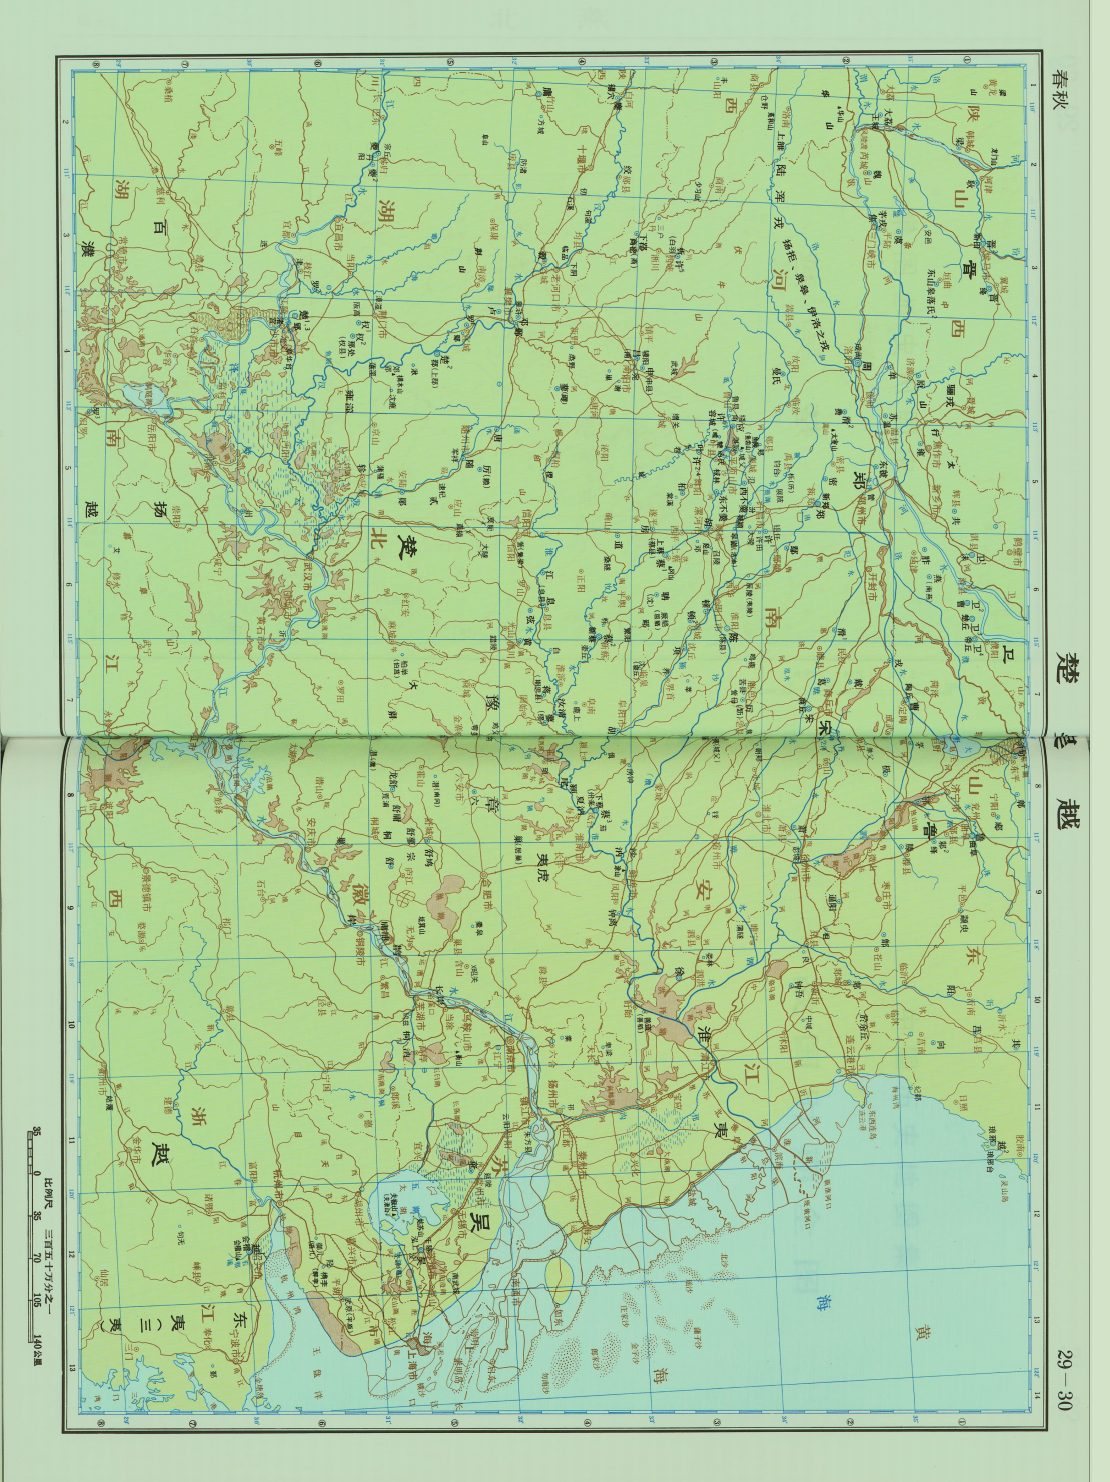
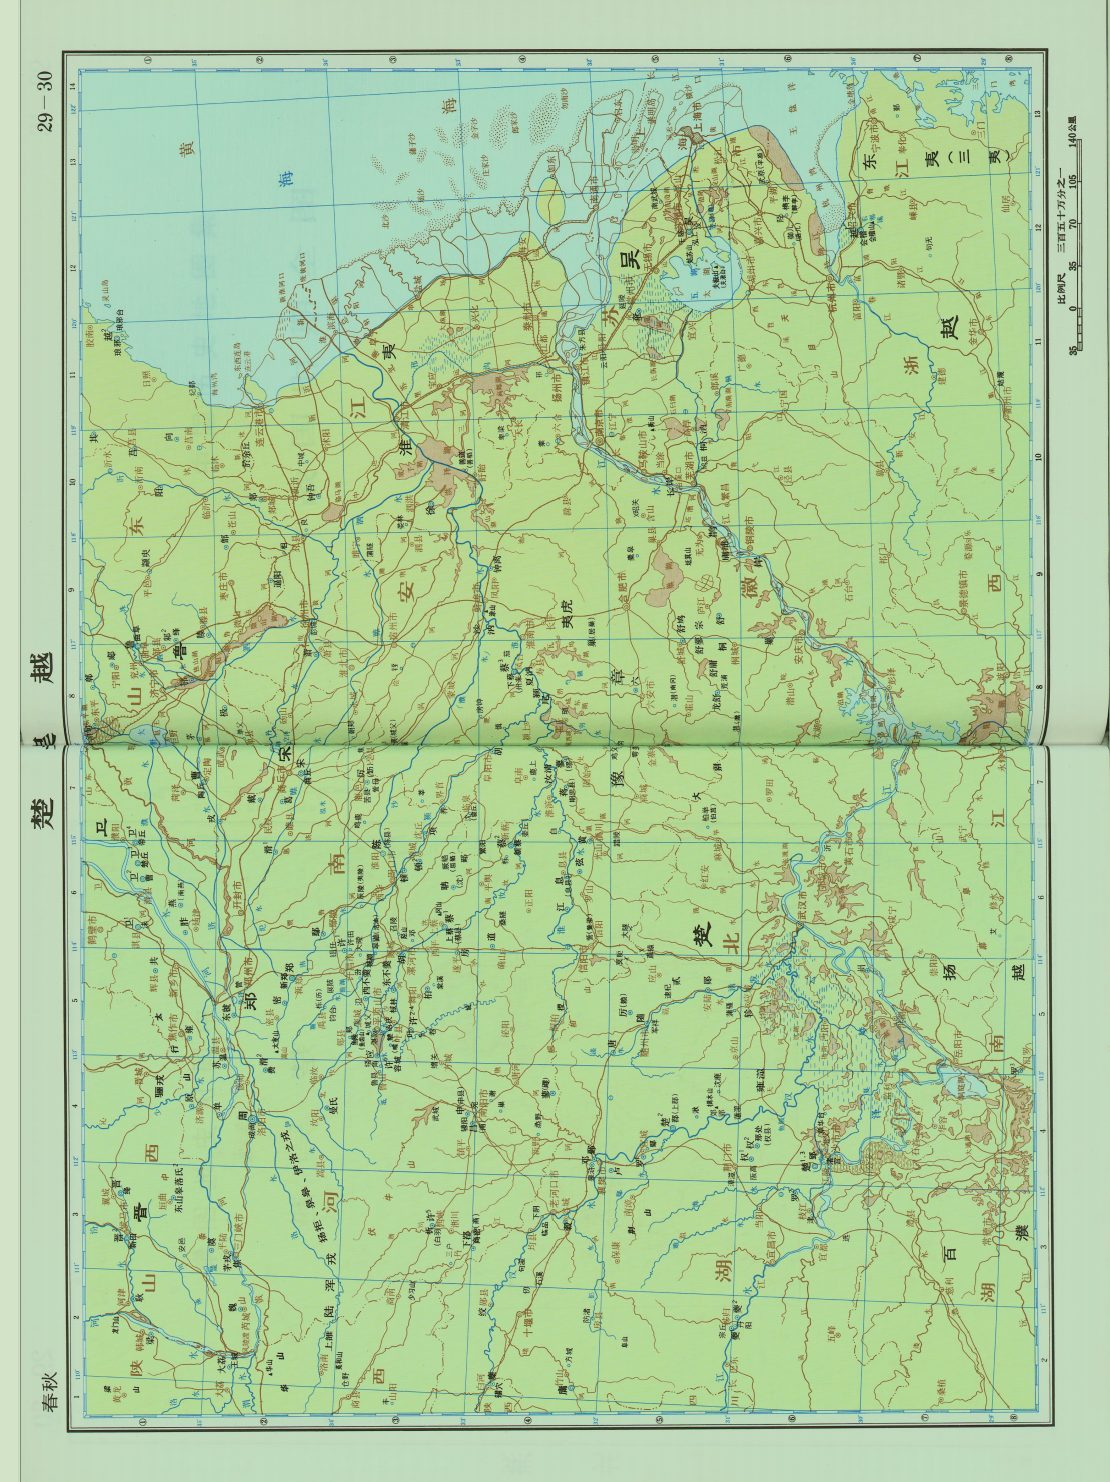
fix(譚圖): 213643「楚吴越」圖再逆時針轉90°（合計180°）；圖檔版本 v=3

diff --git a/index.html b/index.html
@@ -1180,7 +1180,7 @@ function azMapView(){
   var img=document.createElement("img");
   img.alt=(m?m.title:"譚圖")+" 原圖";
   img.loading="lazy";
-  img.src="atlas-img/"+AZ_SEL.map+".jpg?v=2";
+  img.src="atlas-img/"+AZ_SEL.map+".jpg?v=3";
   img.title="點圖可放大／縮回";
   img.onclick=function(){ img.classList.toggle("zoomed"); };
   img.onerror=function(){
